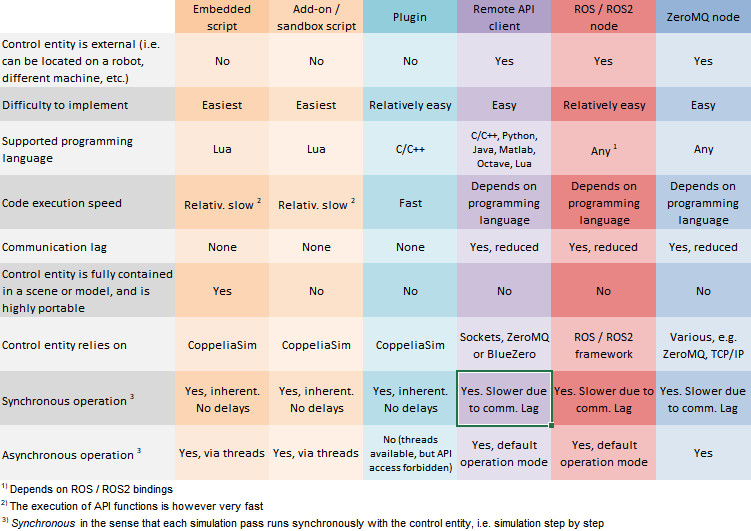
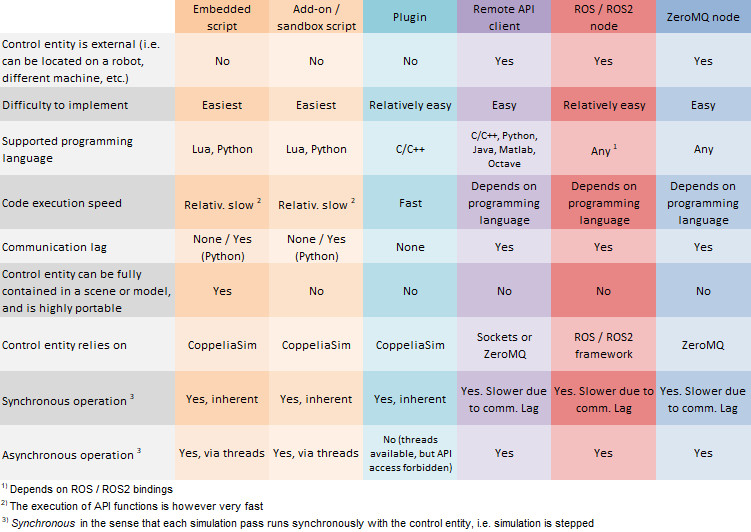
first part of python doc

diff --git a/en/threadedAndNonThreadedCode.htm b/en/threadedAndNonThreadedCode.htm
@@ -26,7 +26,8 @@
 </h2>
 
 <p>The entrance to a script is always originating from <a href="callbackFunctions.htm">callback functions</a> which are not running threaded, and should not be blocking. This means that every time they are called, they should perform some task and then return control. If control is not returned, then CoppeliaSim will halt. </p>
-<p>Non-threaded code runs faster than threaded code, since there is no overhead in handling the thread creation, switching or resume function. It also has inherent synchronization  with the simulation loop.</p>
+<p>Non-threaded code is inherently synchronized  with the simulation loop.</p>
+<p>While non-threaded Lua code executes in the same thread as CoppeliaSim and is thus quite efficient, non-threaded Python code operates in a slightly different manner: CoppeliaSim will launch a new process which will connect to CoppeliaSim via socket communication. Everything happens <em>under the hood</em>, the main difference is however that Python code will start and run slower than Lua code. See also the other <a href="luaPythonDifferences.htm">differences between Lua and Python scripts</a>.</p>
 <br>
 
 
@@ -36,9 +37,15 @@
 </h2>
 
 
-<p>Threading in a script is achieved via <a href="https://en.wikipedia.org/wiki/Coroutine" target="_blank">coroutines</a>, that CoppeliaSim will preemptively interrupt (i.e. yield, or switch) at regular intervals, and resume at a later point. In this context, we will refer to <em>threads</em> and <em>coroutines</em> , <em>interrupt</em>, <em>yield</em> and <em>switch</em>, in an interchangeable manner.</p>
+<p>In a Lua script, threading is achieved via <a href="https://en.wikipedia.org/wiki/Coroutine" target="_blank">coroutines</a>, that CoppeliaSim will preemptively interrupt (i.e. yield, or switch) at regular intervals, and resume at a later point. </p>
+<p>On the other hand, CoppeliaSim will handle threading of a Python script by launching a new process which will connect to CoppeliaSim via socket communication, which happens <em>under the hood</em>, the main difference is however that Python code will start slower than Lua code. See also the other <a href="luaPythonDifferences.htm">differences between Lua and Python scripts</a>.</p>
+<p>In the context of threaded code, we will refer to <em>threads</em> and <em>coroutines</em>, <em>interrupt</em>, <em>yield</em> and <em>switch</em>, in an interchangeable manner.</p>
+<p>&nbsp;</p>
 
-<p>Threaded code has several weaknesses compared to non-threaded code if not programmed appropriately: it is  more resource-intensive, and it can waste some processing time. Following shows a typical threaded function (i.e. <em>coroutineMain</em>), which however is not perfect since <strong>it is wasting precious computation time</strong> in the loop:<br>
+
+<p><strong>Lua specific</strong></p>
+
+<p>Lua threaded code has several weaknesses compared to Lua non-threaded code if not programmed appropriately: it can waste some processing time. Following shows a typical threaded function in a Lua script (i.e. <em>coroutineMain</em>), which however is not perfect since <strong>it is wasting precious computation time</strong> in the loop:<br>
 </p>
 <code class="hljs language-lua coppelia-coppeliasim-script">
 function sysCall_init()
@@ -55,15 +62,16 @@ function sysCall_actuation()
 end
 
 function coroutineMain()
-    for i=1,100,1 do
+    while true do
         print('simulation time: ',sim.getSimulationTime())
     end
 end</code>
 
-<p>By default a threaded code section will execute for about 1-2 milliseconds before automatically interrupting or <em>switching</em> and giving control back to the caller. This default behavior can be changed with the <a href="regularApi/simSetThreadSwitchTiming.htm">sim.setThreadSwitchTiming</a> or <a href="regularApi/simSetThreadAutomaticSwitch.htm">sim.setThreadAutomaticSwitch</a>. Once the current thread was switched, it will resume next time the coroutine is resumed (which often is in next simulation step. The thread switching is automatic and is handled by CoppeliaSim (occurs after the specified time), but the <a href="regularApi/simSwitchThread.htm">sim.switchThread</a> command allows to explicitely switch when needed. Using above three commands, a perfect synchronization with the main simulation loop can be achieved. Following code shows code synchronization with the main simulation loop:<br>
+<p>By default a Lua threaded code section will execute for about 1-2 milliseconds before automatically interrupting or <em>switching</em> and giving control back to the caller. This default behavior can be changed with the <a href="regularApi/simSetThreadSwitchTiming.htm">sim.setThreadSwitchTiming</a> or <a href="regularApi/simSetThreadAutomaticSwitch.htm">sim.setThreadAutomaticSwitch</a>. Once the current thread was switched, it will resume next time the coroutine is resumed (which often is in next simulation step. The thread switching is automatic and is handled by CoppeliaSim (occurs after the specified time), but the <a href="regularApi/simSwitchThread.htm">sim.switchThread</a> command allows to explicitely switch when needed. Using above three commands, a perfect synchronization with the main simulation loop can be achieved. Following Lua code shows code synchronization with the main simulation loop:<br>
 </p>
 <code class="hljs language-lua coppelia-coppeliasim-script">
 function sysCall_init()
+    sim.setThreadAutomaticSwitch(false) -- forbid automatic switches
     corout=coroutine.create(coroutineMain)
 end
 
@@ -77,20 +85,48 @@ function sysCall_actuation()
 end
 
 function coroutineMain()
-    local savedLockLevel=sim.setThreadAutomaticSwitch(false) -- forbid automatic switches
-    for i=1,100,1 do
+    while true do
         print('simulation time: ',sim.getSimulationTime())
         sim.switchThread() -- resume in next simulation step
     end
-    sim.setThreadAutomaticSwitch(savedLockLevel) -- restore automatic switch behaviour
 end</code>
 
-<p>Above while loop will now execute exactly once for each main simulation step and not waste time reading and printing the simulation time over and over for same simulation step.
+<p>Above while loop will now execute exactly once for each main simulation step and not waste time reading and printing the simulation time over and over for same the simulation step.
 </p>
 
-<p>Some operation should not be interrupted in order to execute correctly (imagine moving several objects in a loop). In that case, you can temporarily forbid thread switches with the <a href="regularApi/simSetThreadAutomaticSwitch.htm">sim.setThreadAutomaticSwitch</a> function.</p>
-<p>Several <a href="apiFunctions.htm#blockingFunctions">blocking functions</a> are specifically meant to be running from within threaded code, e.g. <a href="regularApi/simMoveToConfig.htm">sim.moveToConfig</a>: those functions will handle thread switching for you, at the appropriate time, in order to operate synchronously with the simulation loop.</p>
+<p>&nbsp;</p>
 
+
+<p><strong>Python specific</strong></p>
+
+<p>Python threaded code shares similar properties as Lua threaded code, regarding synchronization with CoppeliaSim's simulation loop. Following shows a typical threaded function in a Python script (i.e. <em>threadMain</em>), which is not synchronized:</p>
+<code class="hljs language-python coppelia-coppeliasim-script">
+#python
+
+def threadMain():
+    sim.setThreadAutomaticSwitch(True) # allow automatic switches
+    while True:
+        print('simulation time: '+str(sim.getSimulationTime()))
+</code>
+
+<p>By default, a Python threaded code section will not operate synchronously, but this can be changed with <a href="regularApi/simSetThreadAutomaticSwitch.htm">sim.setThreadAutomaticSwitch</a>(False) and <a href="regularApi/simSwitchThread.htm">sim.switchThread</a>. Once the current thread was switched, it will resume in next simulation step. Following Python code shows code synchronization with the main simulation loop:</p>
+
+<code class="hljs language-python coppelia-coppeliasim-script">
+#python
+
+def threadMain():
+    sim.setThreadAutomaticSwitch(False) # forbid automatic switches
+    while True:
+        print('simulation time: '+str(sim.getSimulationTime()))
+        sim.switchThread() # resume in next simulation step
+</code>
+
+<p>Above while loop will now execute exactly once for each main simulation step and not waste time reading and printing the simulation time over and over for the same simulation step.
+</p>
+<p>&nbsp;</p>
+
+<p>With threads in general, some operation should not be interrupted in order to execute correctly (imagine moving several objects in a loop). In that case, you can temporarily forbid thread switches with the <a href="regularApi/simSetThreadAutomaticSwitch.htm">sim.setThreadAutomaticSwitch</a> function.</p>
+<p>Finally, several <a href="apiFunctions.htm#blockingFunctions">blocking functions</a> are specifically meant to be running from within threaded code, e.g. <a href="regularApi/simMoveToConfig.htm">sim.moveToConfig</a>: those functions will handle thread switching for you, at the appropriate time, in order to operate synchronously with the simulation loop.</p>
 <br>
 <br>
  </tr>

diff --git a/en/writingCode.htm b/en/writingCode.htm
@@ -19,16 +19,13 @@
 
 <h1>Writing code in and around CoppeliaSim</h1>
 
-<p>CoppeliaSim is a highly customizable simulator: every aspect of a <a href="simulation.htm">simulation</a> can be customized. Moreover, the simulator itself can be customized and tailored so as to behave exactly as desired. This is allowed through an elaborate <a href="apisOverview.htm">Application Programming Interface</a> (API). 6+ different programming or coding approaches are supported, each having particular advantages (and obviously also disadvantages) over the others, but all six are mutually compatible (i.e. can be used at the same time, or even hand-in-hand). The control entity of a <a href="models.htm">model</a>, <a href="scenes.htm">scene</a>, or the simulator itself can be located inside:<br>
-</p>
+<p>CoppeliaSim is a highly customizable simulator: every aspect of a <a href="simulation.htm">simulation</a> can be customized. Moreover, the simulator itself can be customized and tailored so as to behave exactly as desired. This is allowed through an elaborate <a href="apisOverview.htm">Application Programming Interface</a> (API). 6+ different programming or coding approaches are supported, each having particular advantages (and obviously also disadvantages) over the others, but all six are mutually compatible (i.e. can be used at the same time, or even hand-in-hand). The control entity of a <a href="models.htm">model</a>, <a href="scenes.htm">scene</a>, or the simulator itself can be located inside:</p>
 
-<li>an <a href="scripts.htm">embedded script</a> (i.e. customizing a simulation (i.e. a <a href="scenes.htm">scene</a> or <a href="models.htm">models</a>) via scripting): this method, which consists in writing <a href="http://www.lua.org">Lua</a> scripts, is very easy and flexible, with guaranteed compatibility with every other default CoppeliaSim installations (as long as customized Lua-commands are not used, or are used with distributed <a href="plugins.htm">plugins</a>). This method allows customizing a particular simulation, a simulation scene, and to a certain extent the simulator itself. This is the easiest and most used programming approach.</li>
+<li>an <a href="scripts.htm">embedded script</a> (i.e. customizing a simulation (i.e. a <a href="scenes.htm">scene</a> or <a href="models.htm">models</a>) via scripting): this method, which consists in writing <a href="http://www.lua.org">Lua</a> or <a href="http://www.python.org">Python</a> scripts, is very easy and flexible, with guaranteed compatibility with every other default CoppeliaSim installations (as long as customized API functions are not used, or are used with distributed <a href="plugins.htm">plugins</a>). This method allows customizing a particular simulation, a simulation scene, and to a certain extent the simulator itself. This is the easiest and most used programming approach.</li>
 
-<li>an <a href="addOns.htm">add-on</a> or <a href="sandboxScript.htm">the sandbox script</a>: this method, which consists in writing <a href="http://www.lua.org">Lua</a> scripts, allows to quickly customize the simulator itself. Add-ons (or the sandbox script) can start automatically and run in the background, or they can be called as functions (e.g. convenient when writing importers/exporters). Add-ons should not be  specific to a certain simulation or model, they should rather offer a more generic, simulator-bound functionality.<br>
-</li>
+<li>an <a href="addOns.htm">add-on</a> or <a href="sandboxScript.htm">the sandbox script</a>: this method, which consists in writing Lua or Python scripts, allows to quickly customize the simulator itself. Add-ons (or the sandbox script) can start automatically and run in the background, or they can be called as functions (e.g. convenient when writing importers/exporters). Add-ons should not be  specific to a certain simulation or model, they should rather offer a more generic, simulator-bound functionality.</li>
 
-<li>a <a href="plugins.htm">plugin</a> (i.e. customizing the simulator and/or a simulation via a plugin): this method basically consists in writing a plugin for CoppeliaSim.  Oftentimes, plugins are only used to provide a simulation with <a href="apiFunctions.htm#customizingLuaFunctions">customized Lua commands</a>, and so are used in conjunction with the first method. Other times, plugins are used to provide CoppeliaSim with a special functionality requiring either fast calculation capability (scripts are most of the time slower than compiled languages),  a specific  interface to a hardware device (e.g. a real robot), or a special communication interface with the outside world.<br>
-</li>
+<li>a <a href="plugins.htm">plugin</a> (i.e. customizing the simulator and/or a simulation via a plugin): this method basically consists in writing a plugin for CoppeliaSim.  Oftentimes, plugins are only used to provide a simulation with <a href="apiFunctions.htm#customizingLuaFunctions">customized API commands</a>, and so are used in conjunction with the first method. Other times, plugins are used to provide CoppeliaSim with a special functionality requiring either fast calculation capability (scripts are most of the time slower than compiled languages),  a specific  interface to a hardware device (e.g. a real robot), or a special communication interface with the outside world.</li>
 
 <li>a <a href="remoteApiOverview.htm">remote API</a> client (i.e. customizing the simulator and/or a simulation via a remote API client application): this method allows an external application (e.g. located on a robot, another machine, etc.) to connect to CoppeliaSim in a very easy way, using remote API commands.</li>
 

diff --git a/en/scripts.htm b/en/scripts.htm
@@ -19,17 +19,13 @@
 
 <h1>Scripts</h1>
 
-<p>CoppeliaSim is a highly customizable simulator: almost every step of a <a href="simulation.htm">simulation</a> is user-defined. Additionally, the simulator itself can also be customized to a large extent. This flexibility is allowed through an integrated script interpreter. The scripting language is <a href="http://www.lua.org">Lua</a>, which is an extension programming language designed to support general procedural programming. For more information on Lua, refer to the <a href="luaCrashCourse.htm">Lua crash course</a> section and the <a href="http://www.lua.org">online documentation</a>. See <a href="acknowledgments.htm">here</a> for acknowledgments and credits related to Lua.<br>
-</p>
+<p>CoppeliaSim is a highly customizable simulator: almost every step of a <a href="simulation.htm">simulation</a> is user-defined. Additionally, the simulator itself can also be customized to a large extent. This flexibility is allowed through an integrated script interpreter (<a href="http://www.lua.org">Lua</a>) and an external script interpreter (<a href="http://www.python.org">Python</a>). For more information on Lua, refer to the <a href="luaCrashCourse.htm">Lua crash course</a> section and the <a href="http://www.lua.org">online documentation</a>.</p>
 
-<p align=center><img src="images/luaLogo.jpg"></p>
-<p class=imageLabel>[Lua logo]</p>
+<p align=center><img src="images/luaAndPythonLogo.jpg"></p>
+<p class=imageLabel>[Lua and Python logo]</p>
 <br>
 
-<p>CoppeliaSim extends Lua's commands and adds CoppeliaSim specific commands that can be recognized by their <em>sim</em>-prefixes (e.g. <a href="regularApi/simGetObjectPosition.htm">sim.getObjectPosition</a>). For a list of all CoppeliaSim specific Lua-commands, refer to the <a href="apiFunctions.htm">regular API</a>. New, customized Lua-commands can also be registered from a <a href="plugins.htm">plugin</a>. Refer to the <a href="apiFunctions.htm#customizingLuaFunctions">related API-functions</a> for more information.<br>
-</p>
-
-<p>Lua's functionality itself can easily be extended by making use of a <a href="http://lua-users.org/wiki/LibrariesAndBindings">Lua extension library available online</a>.<br>
+<p>CoppeliaSim extends Lua's and Python's API function and adds CoppeliaSim specific commands that can be recognized by their <em>sim</em>-prefixes (e.g. <a href="regularApi/simGetObjectPosition.htm">sim.getObjectPosition</a>). For a list of all CoppeliaSim specific API functions, refer to the <a href="apiFunctions.htm">regular API</a>. New, customized API functions can also be registered from a <a href="plugins.htm">plugin</a>. Refer to the <a href="apiFunctions.htm#customizingLuaFunctions">related API-functions</a> for more information.<br>
 </p>
 
 <p>Several types of scripts are supported in CoppeliaSim: <a href="sandboxScript.htm">the sandbox script</a>, <a href="addOns.htm">add-ons</a>, and <a href="embeddedScripts.htm">embedded scripts</a> (themselves composed of a <a href="mainScript.htm">main script</a>, <a href="childScripts.htm">child scripts</a> and <a href="customizationScripts.htm">customization scripts</a>). An embedded script is a script that is embedded in a <a href="scenes.htm">scene</a> (or <a href="models.htm">model</a>), i.e. a script that is part of the scene and that will be saved and loaded together with the rest of the scene (or model). On the other hand, the sandbox script and add-ons are not associated with any specific scene, model or object, and will run across all scenes in a similar way. </p>

diff --git a/en/scriptEditor.htm b/en/scriptEditor.htm
@@ -40,17 +40,23 @@
 <li>inspection/edition of included files</li>
 <li>open of the documentation for the API function/constant under the mouse pointer, via the context menu</li>
 
-<p>The API functions can easily be accessed by typing the first 3 letters (usually <em>sim</em>). When a script was modified, there is no need to explicitly save the changes: closing the script editor, saving the scene or starting a <a href="simulation.htm">simulation</a> will automatically apply the changes to the script. When a simulation is running, modifications to a given script will only take effect once a new simulation run is started, except for <a href="customizationScripts.htm">customization scripts</a> that will always apply changes once the editor was closed. The user can also explicitely restart/reset a given script, for changes to take immediately effect.</p>
+<p>The API functions can easily be accessed by typing the first 3 letters (usually <em>sim</em>). When a script was modified, there is no need to explicitly save the changes: closing the script editor, saving the scene or starting a <a href="simulation.htm">simulation</a> will automatically apply the changes to the script. When a simulation is running, modifications to a given script will only take effect once a new simulation run is started. The user can also explicitely restart/reset a given script, for changes to take immediately effect.</p>
 
-<p>If you have recurring functions you wish to access from a given script, or if you simply wish to run code from an external file, you can do this with following:</p>
+<p>If you have recurring functions you wish to access from a given script, or if you simply wish to run code from an external file, you can do this with following for a Lua script:</p>
 
 <code class="hljs language-lua coppelia-coppeliasim-script">
 require "myExternalLuaFile"
 </code>
 
-<p>In that case, make sure the file is named <em>myExternalLuaFile.lua</em>, and do not forget to distribute it together with your scene or model, since that code will not be part of a CoppeliaSim file anymore. Searched path are usually following:</p>
+<p>and for a Python script:</p>
+<code class="hljs language-python coppelia-coppeliasim-script">
+#pythonWrapper(myExternalLuaFile)  
+</code>
+
+<p>In that case, make sure the file is named <em>myExternalLuaFile.lua</em> or <em>myExternalLuaFile.py</em>, and do not forget to distribute it together with your scene or model, since that code will not be part of a CoppeliaSim file anymore. Searched path are usually following:</p>
 <li><em>&lt;CoppeliaSim executable&gt;/</em></li>
 <li><em>&lt;CoppeliaSim executable&gt;/lua/</em></li>
+<li><em>&lt;CoppeliaSim executable&gt;/python/</em></li>
 <li><em>&lt;current scene path&gt;/</em></li>
 <li><em>&lt;additional search path&gt;/</em> (this path can be specified with variable <em>additionalLuaPath</em> in file <em>system/usrset.txt</em>)</li>
 <p>Files included via the <em>require</em> directive can be opened in the same script editor by opening the popup menu over the file name.</p>

diff --git a/en/childScripts.htm b/en/childScripts.htm
@@ -19,12 +19,12 @@
 
 <h1>Child scripts <img src="images/childScripts1.jpg"></h1>
 
-<p>A child script is a <a href="simulationScripts.htm">simulation script</a>. CoppeliaSim supports an unlimited number of child scripts per <a href="scenes.htm">scene</a>. Each child script represents a small collection of routines written in <a href="scripts.htm">Lua</a> allowing handling a particular function in a <a href="simulation.htm">simulation</a>. Child scripts are attached to (or <em>associated with</em>) <a href="objects.htm">scene objects</a>, and they can be easily recognized from their script icon in the <a href="userInterface.htm#SceneHierarchy">scene hierarchy</a>:</p>
+<p>A child script is a <a href="simulationScripts.htm">simulation script</a>. CoppeliaSim supports an unlimited number of child scripts per <a href="scenes.htm">scene</a>. Each child script represents a small collection of routines allowing handling a particular function in a <a href="simulation.htm">simulation</a>. Child scripts are attached to (or <em>associated with</em>) <a href="objects.htm">scene objects</a>, and they can be easily recognized from their script icon in the <a href="userInterface.htm#SceneHierarchy">scene hierarchy</a>:</p>
 
 <p align=center><img src="images/childScripts0.jpg"></p>
 <p class=imageLabel>[A child script associated with object <em>Robot</em>]</p>
 
-<p>Double-clicking the script icon allows opening the <a href="scriptEditor.htm">script editor</a>. You can change properties of a given script, or associate it with another object via the <a href="scriptProperties.htm">script dialog</a>. You can attach a new child script to an object by selecting the object, then navigating to [menu bar --&gt; Add --&gt; Associated child script]. </p>
+<p>Double-clicking the script icon allows opening the <a href="scriptEditor.htm">script editor</a>. You can change properties of a given script via the <a href="scriptProperties.htm">script dialog</a>. You can attach a new child script to an object by selecting the object, then navigating to [menu bar --&gt; Add --&gt; Associated child script]. </p>
 
 <p>  A child script's association with a scene object has important and positive consequences: </p>
 <li><strong>Very good portability</strong>: child scripts will be saved/loaded together with their associated object. Using child scripts, you are able to create extremely portable code and simulation <a href="models.htm">models</a> that do not need to rely on any system specific plugin. A fully functional model can be contained in a single file (usable without modification across various platforms), which is not the case when relying on <a href="plugins.htm">plugins</a> for model control. Additionally, and for the same reason, models relying on child scripts require no maintenance over time (e.g. a new OS version will not require you to adjust portions of code or recompilation, as you might have to do when using <a href="plugins.htm">plugins</a>).</li>

diff --git a/en/addOns.htm b/en/addOns.htm
@@ -24,7 +24,7 @@ functions; it persists across all opened scenes, and is executed
 constantly, effectively running in the
 background. Add-ons can run <a href="threadedAndNonThreadedCode.htm">threaded or non-threaded</a>, should be segmented into several <a href="callbackFunctions.htm#systemCallbacks">system callback functions</a>, and follow a precise<a href="scriptExecution.htm"> execution order </a>in relation with other script types. They share a lot of properties with <a href="sandboxScript.htm">the sandbox script</a>.</p>
 <p>Add-ons should be written in a text file located in the
-  same folder as the main application, with following naming convention: <em>simAddOnXXXX.lua</em>. Add-ons that do not follow above naming convention can still be loaded and run via <a href="commandLine.htm">command line options</a>.</p>
+  same folder as the main application, with following naming convention: <em>simAddOnXXXX.lua</em> (even add-ons containing Python code). Add-ons that do not follow above naming convention can still be loaded and run via <a href="commandLine.htm">command line options</a>.</p>
 <p>By default, add-ons will automatically start when CoppeliaSim starts, e.g.:</p>
 
 <code class="hljs language-lua coppelia-coppeliasim-script">
@@ -40,7 +40,7 @@ function sysCall_cleanup()
 end</code>  
 
 <br>
-<p>An add-on can also be manually started and stopped from the add-on menu, e.g.:</p>
+<p>An add-on can also be manually started and stopped from the add-on menu (Lua only), e.g.:</p>
 
 <code class="hljs language-lua coppelia-coppeliasim-script">
 function sysCall_info()<br>    return {autoStart=false}<br>end
@@ -65,7 +65,7 @@ end
 
 ...</code>
 <br>
-<p>An add-on can also act as a simple function triggered by the user, e.g.:</p>
+<p>An add-on can also act as a simple function triggered by the user (Lua only), e.g.:</p>
 
 <code class="hljs language-lua coppelia-coppeliasim-script">
 function sysCall_info()<br>    return {autoStart=false}<br>end
@@ -76,7 +76,7 @@ function sysCall_init()
     return {cmd='cleanup'} -- end this add-on.
 end</code>
 <br>
-<p>An add-on can also display a customized name in the Modules' menu, e.g.:</p>
+<p>An add-on can also display a customized name in the Modules' menu (Lua only), e.g.:</p>
 
 <code class="hljs language-lua coppelia-coppeliasim-script">
 function sysCall_info()<br>    return {menu='Exporters//My exporter'}<br>end

diff --git a/en/sandboxScript.htm b/en/sandboxScript.htm
@@ -20,7 +20,7 @@
 <p>The sandbox script is quite similar to an <a href="addOns.htm">add-on</a>:
 it is automatically loaded at program start-up, and allows CoppeliaSim's
 functionality to be extended by user-written functionality or
-functions. In addition to that, the sandbox script is extensively used in CoppeliaSim's  Lua commander plugin (read-eval-print loop), that adds a text input to the CoppeliaSim status bar, allowing entering and executing Lua code on the fly, like in a terminal. It is persistent across all opened scenes, and is executed
+functions. In addition to that, the sandbox script is extensively used in CoppeliaSim's  Lua commander plugin (read-eval-print loop), that adds a text input to the CoppeliaSim status bar, allowing entering and executing code on the fly, like in a terminal. It is persistent across all opened scenes, and is executed
 constantly, effectively running in the
 background. For that reason, it should only execute minimalistic code everytime called, since the whole application would otherwise slow down.
 The sandbox script is called via <a href="callbackFunctions.htm#systemCallbacks">system callback functions</a>, and follows a precise<a href="scriptExecution.htm"> execution order </a>in relation with other script types.</p>
